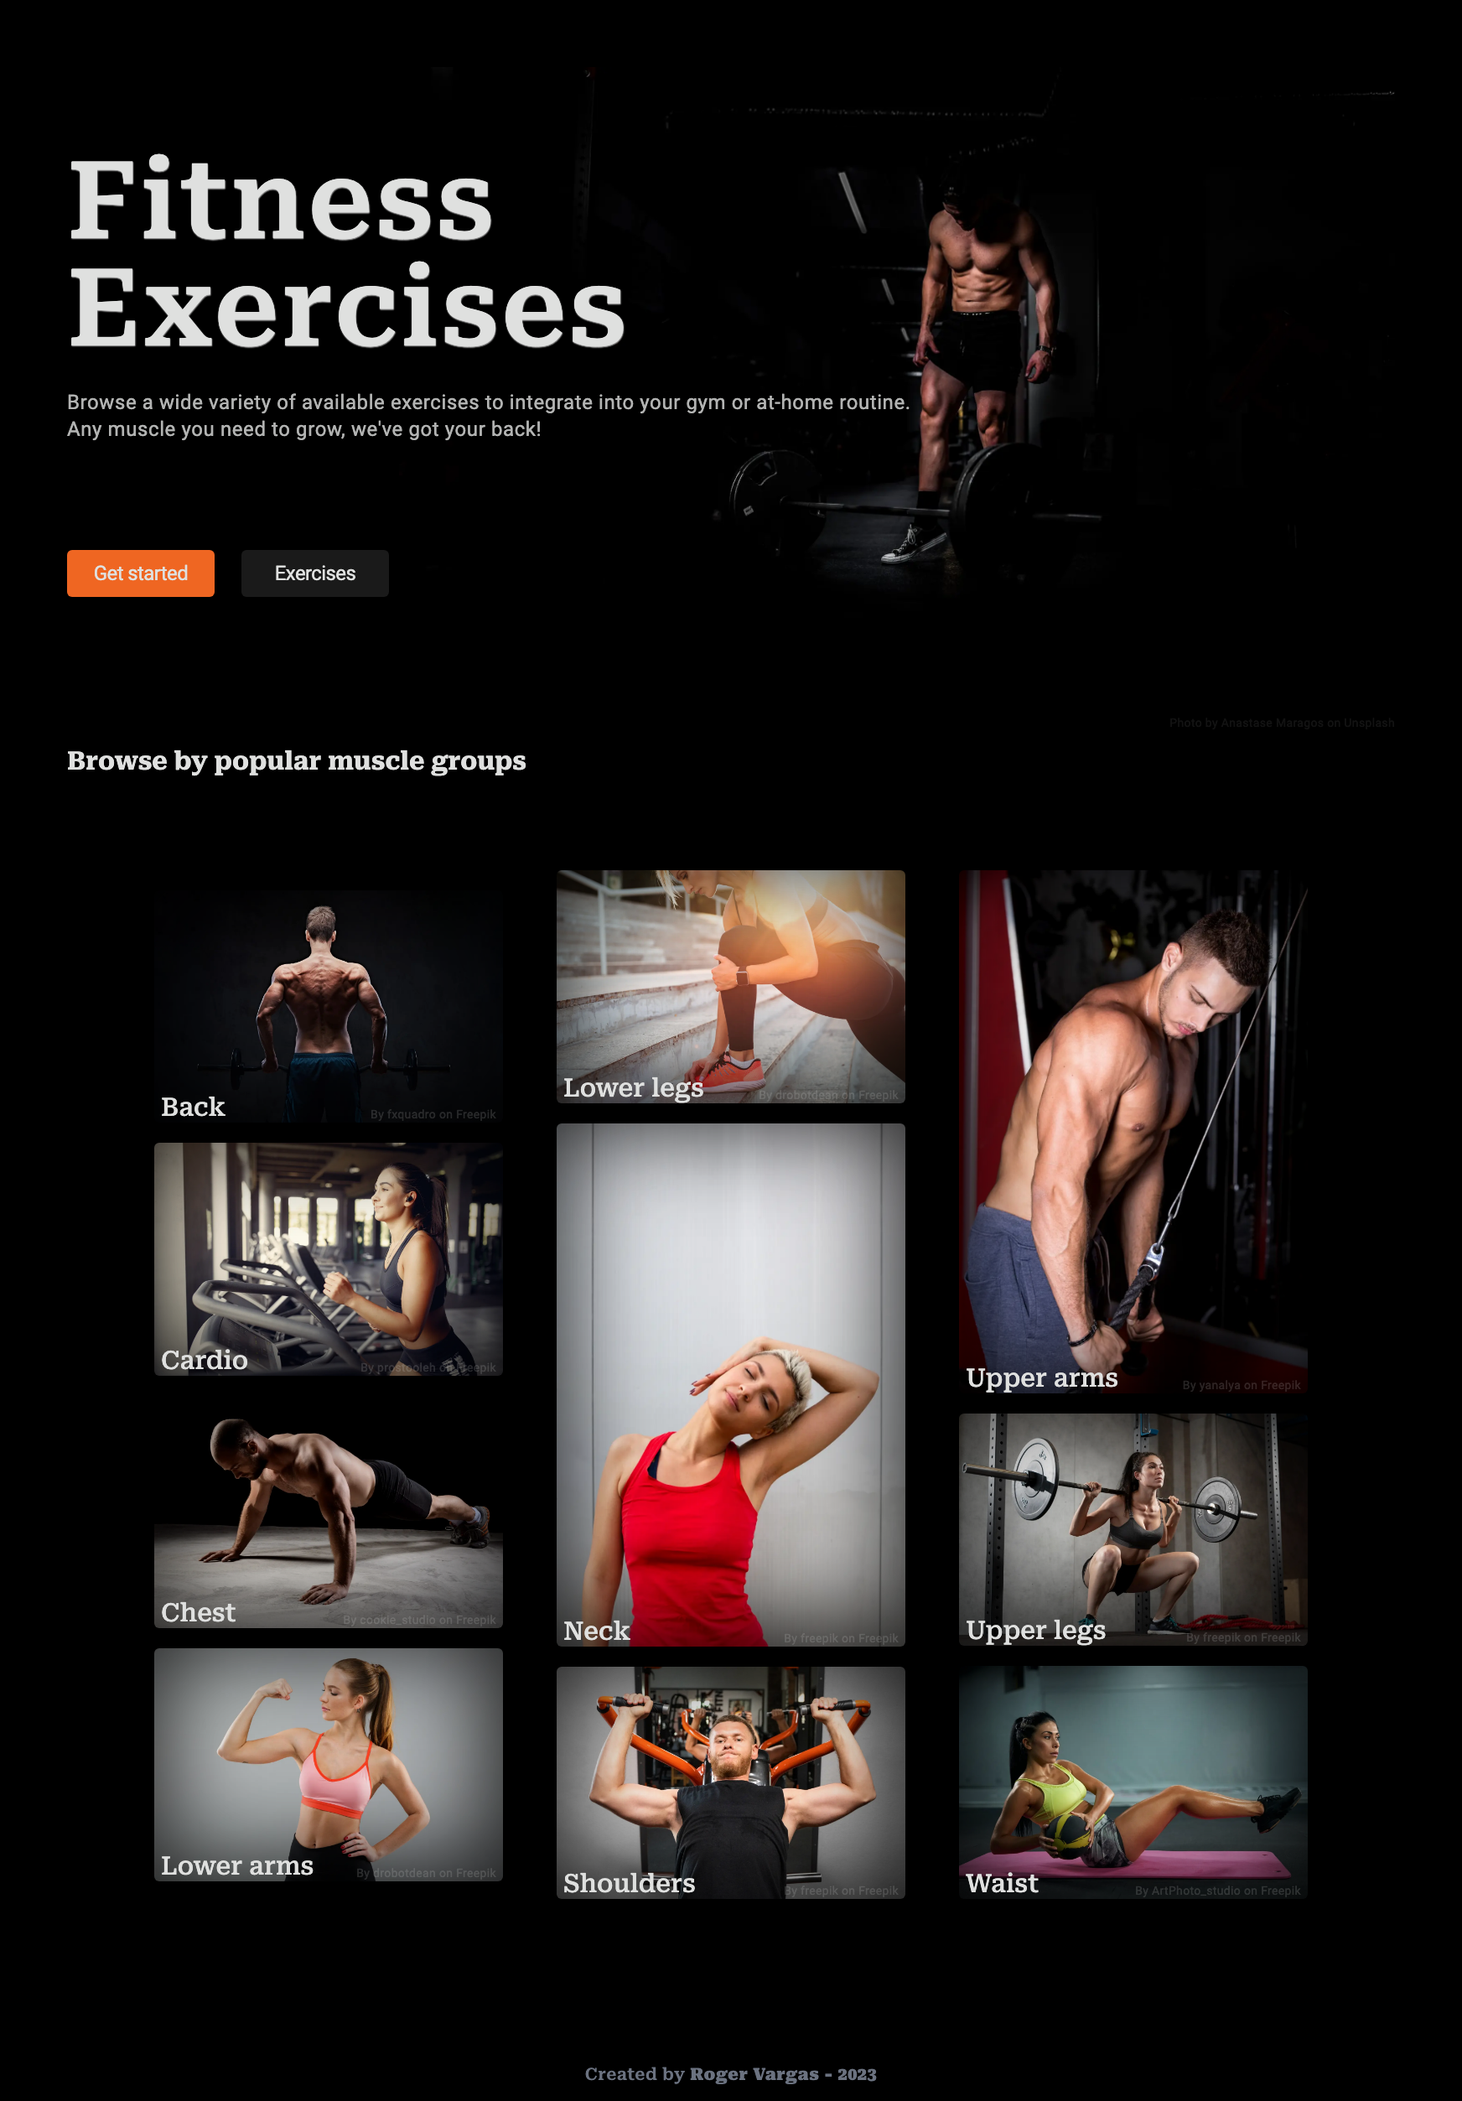
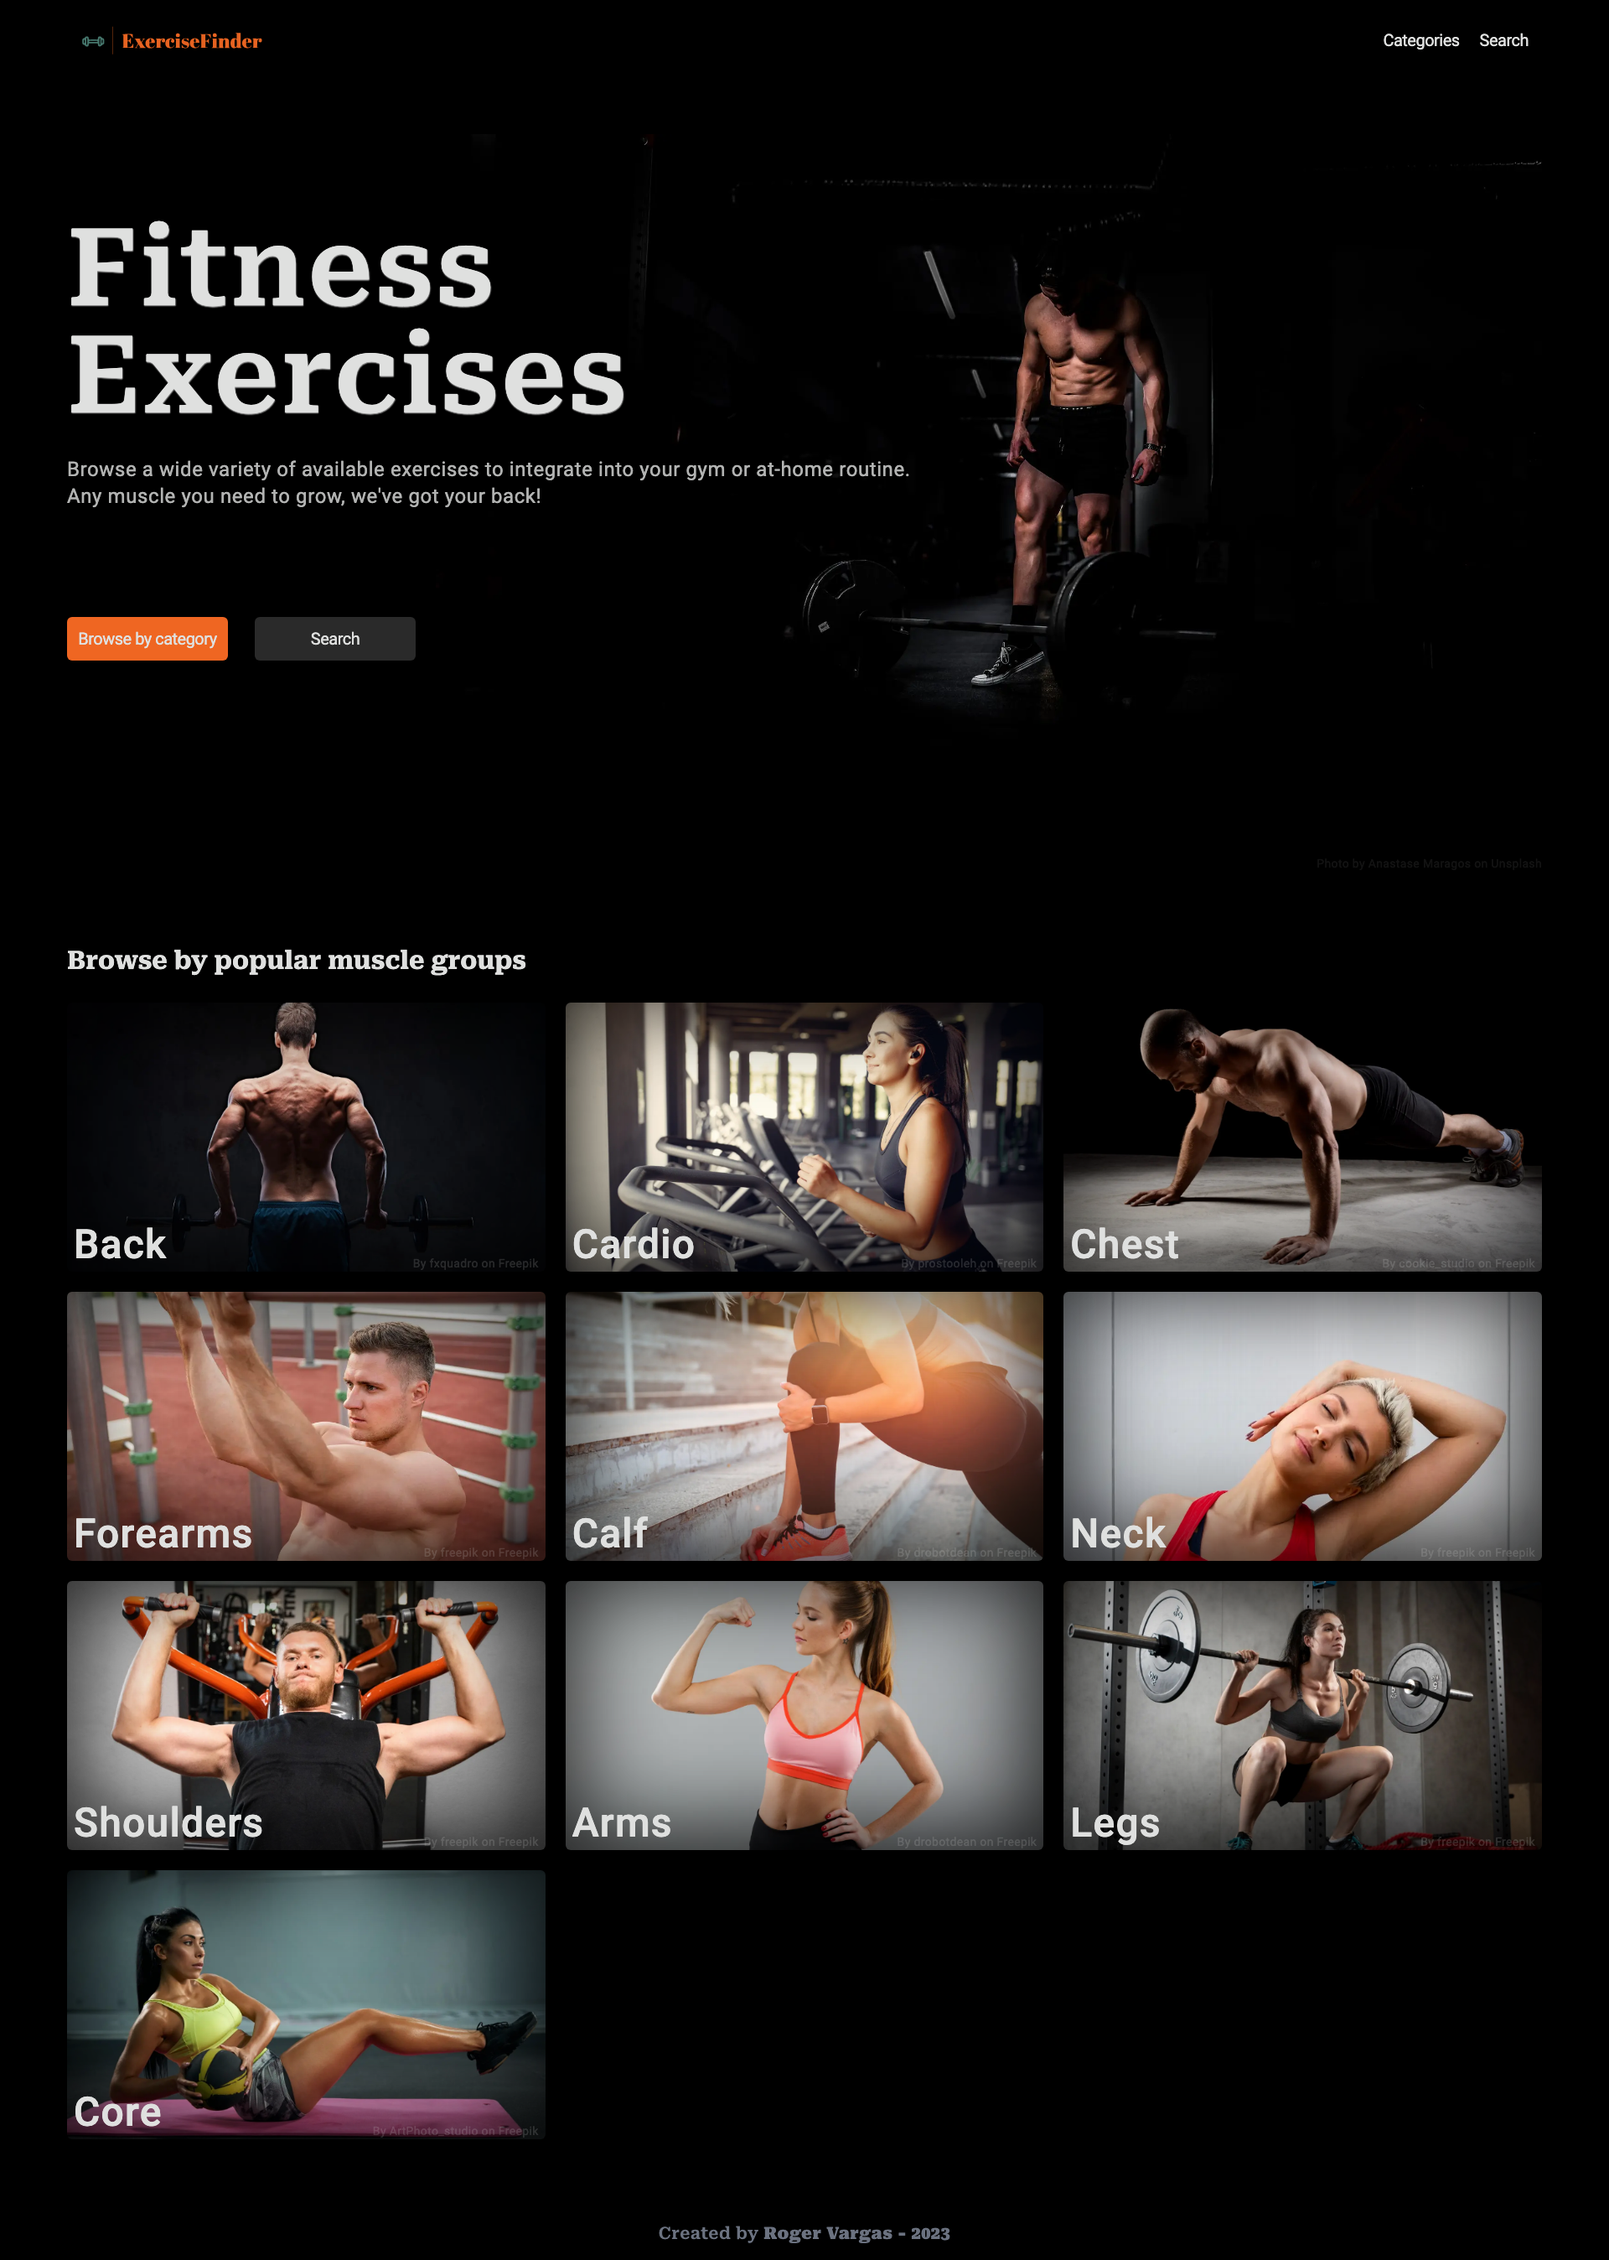
Hamburguer menu in process -Started implementing the hamburguer menu, pending the modal menu -Some styling to make the navbar look better, still pending the intersection observer to toggle 2 different navbar stylings

diff --git a/app/components/navbar.tsx b/app/components/navbar.tsx
@@ -2,23 +2,53 @@
 import Image from 'next/image';
 import logo from '/public/ExerciseFinder.svg';
 import Link from "next/link";
+import { useState, KeyboardEvent, ChangeEvent } from 'react';
 
 export default function Navbar() {
+
+    const [toggleMenu, setToggleMenu] = useState(false);
+    //TODO: Add the modal menu and check that the TS implementation of the toggle works
+    const keyboardToggle = (e: KeyboardEvent<HTMLInputElement>) => {
+        if (e.type === "keydown" && e.code === 'Enter') {
+            setToggleMenu(!toggleMenu);
+        }
+    }
+    const changeToggle = (e: ChangeEvent<HTMLInputElement>) => {
+        if (e.type === "change") {
+            setToggleMenu(!toggleMenu);
+        }
+    }
+
+
     return (
         <nav className="w-screen m-auto mt-4 h-16 flex px-4 xl:px-20 sticky top-4 z-40">
-            <ul className="px-4 w-full h-full bg-bg-secondary bg-opacity-0 rounded-md flex flex-wrap items-center justify-start gap-6">
-                <li className="flex-grow">
-                    <Link href="/">
-                        <Image src={logo} width={224} height={64} alt="logo" className='' />
-                    </Link>
-                </li>
-                <li>
-                    <Link href="/categories" className="font-semibold lg:font-normal text-bold-text text-xl tracking-tight">Categories</Link>
-                </li>
-                <li>
-                    <Link href="/search" className="justify-self-start font-semibold lg:font-normal text-bold-text text-xl tracking-tight">Search</Link>
-                </li>
-            </ul>
+            <div className="px-4 w-full h-full bg-bg-secondary opacity-80 rounded-md flex flex-wrap items-center justify-between gap-6">
+                <Link href="/">
+                    <Image src={logo} width={224} height={64} alt="logo" />
+                </Link>
+                <ul className='max-[640px]:hidden flex-grow flex flex-wrap justify-end gap-6'>
+                    <li>
+                        <Link href="/" className="font-semibold lg:font-normal text-bold-text text-xl tracking-tight">Home</Link>
+                    </li>
+                    <li>
+                        <Link href="/categories" className="font-semibold lg:font-normal text-bold-text text-xl tracking-tight">Categories</Link>
+                    </li>
+                    <li>
+                        <Link href="/search" className="justify-self-start font-semibold lg:font-normal text-bold-text text-xl tracking-tight">Search</Link>
+                    </li>
+                </ul>
+                <div className="sm:hidden w-6 h-6 relative bg-inherit">
+                    <input className="z-30 absolute inset-0 w-6 h-6 peer cursor-pointer peer" type="checkbox" name="menu-toggle" id="toggle" onChange={(e) => changeToggle(e)} checked={toggleMenu} onKeyDown={(e) => keyboardToggle(e)} />
+                    <span className="absolute inset-0 w-6 h-6 pointer-events-none bg-inherit z-40">
+                    </span>
+                    <svg viewBox="2 2 20 20" className=" w-6 h-6 z-50 relative pointer-events-none text-bold-text peer-hover:text-primary" xmlns="http://www.w3.org/2000/svg" fill="none" strokeWidth={2.5} stroke="currentColor">
+                        {
+                            (!toggleMenu) ? <path strokeLinecap="round" strokeLinejoin="round" d="M3.75 6.75h16.5M3.75 12h16.5m-16.5 5.25h16.5" />
+                                : <path strokeLinecap="round" strokeLinejoin="round" d="M6 18L18 6M6 6l12 12" />
+                        }
+                    </svg>
+                </div>
+            </div>
         </nav>
     );
 }
